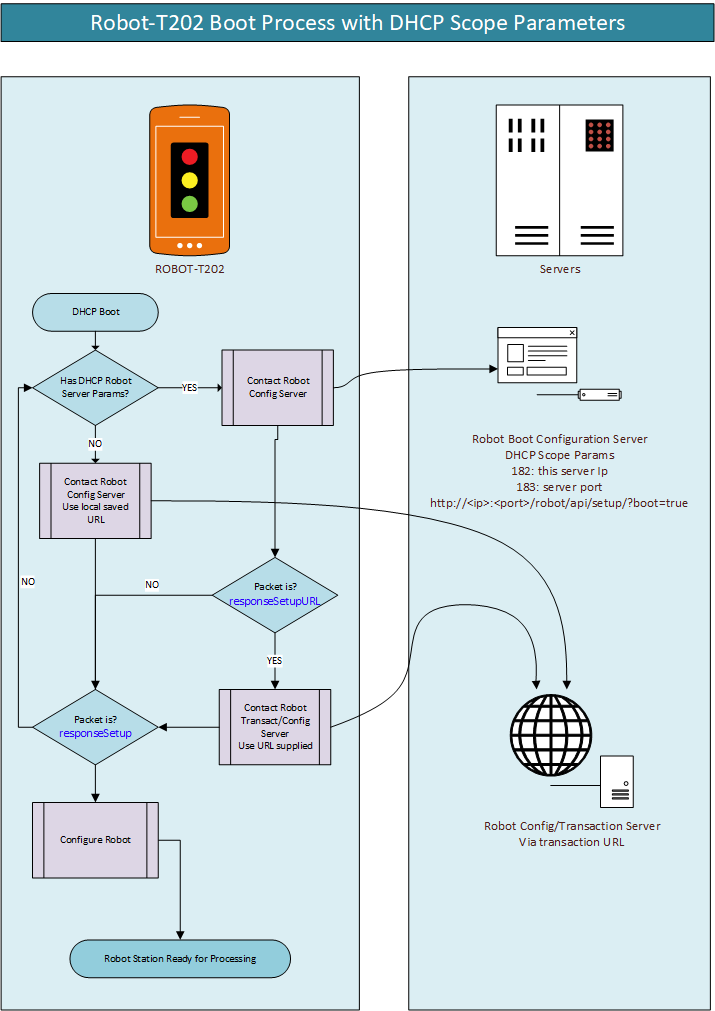
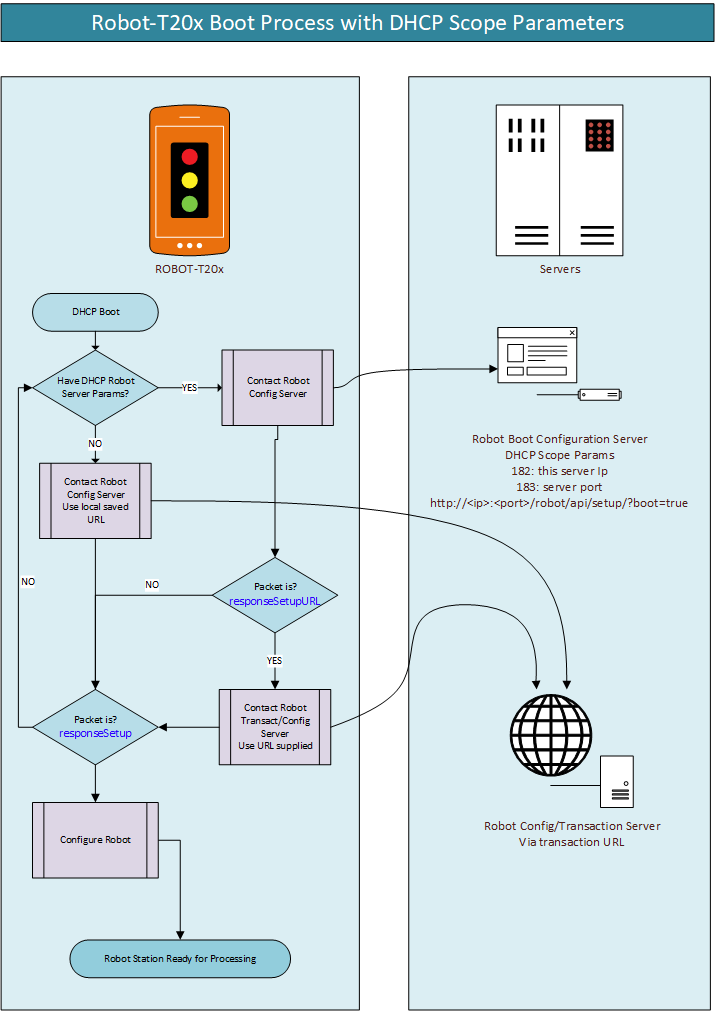
Update image and API doc

diff --git a/api/robot-api.md b/api/robot-api.md
@@ -33,7 +33,7 @@ Basic purpose of the Robot is to link packhouse floor operations to IT systems i
 It is possible to configure the Robot terminal without accessing the device directly.
 The Robot support additional DHCP scope parameters while acquiring its leased address. Two addtional paramters can be included specifying an IP address and port which can provide its runtime configuration. It is also possible that this server only serve as a first hop to provode the next location of an configration resource server.
 
-### DHCP Optional Parameters
+### Optional Parameters Details
 The table below details the optional parameter values.
 |Scope Name|Value|Type|Example|
 |:---:|:---:|:---:|:---:|
